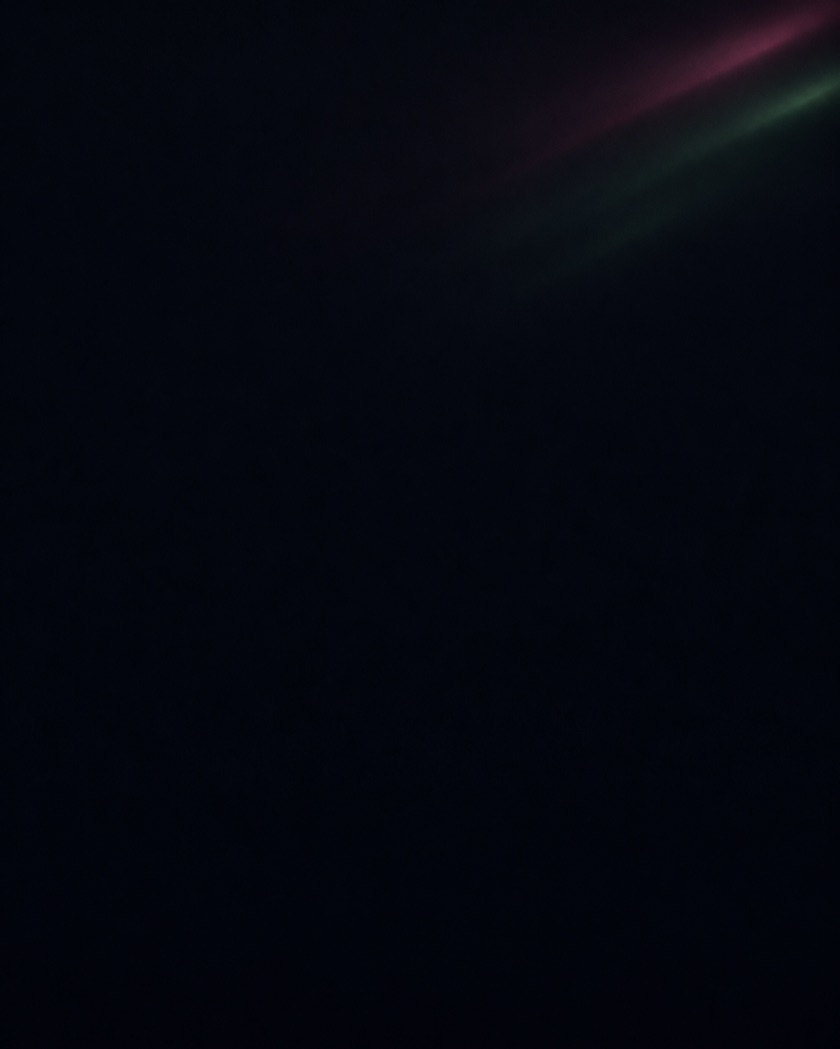
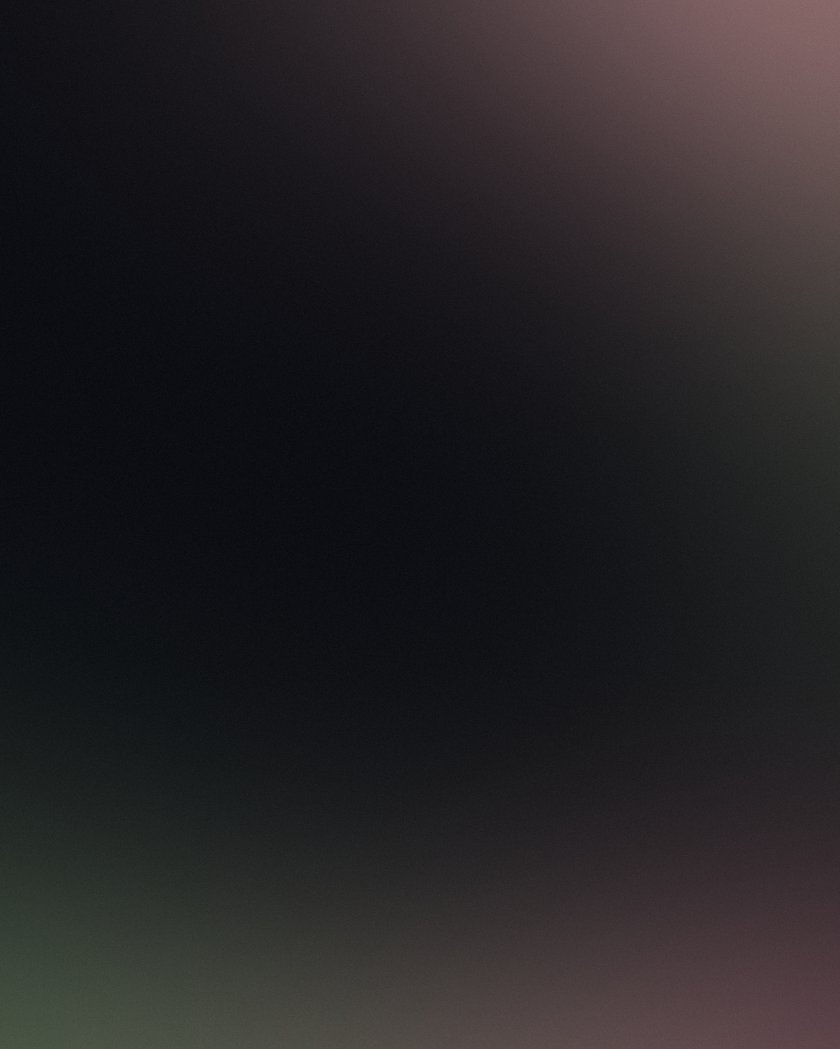
feat(ui): Dango theme pass for 0.3.13
Background D (mesh) from the asset session; one dango colour per card
(sakura source, shiro room, matcha record, red while recording) with a
small title; matcha gradient start button, solid red stop; REC chip beside
the timer, which keeps its indent; version pill in the header; 13 px base
text. UI only: no logic, rule or protocol change. White and dark ink on the
new buttons stay above 4.5:1.

diff --git a/capture/dotnet/src/Apps/Odx.App/MainWindow.xaml b/capture/dotnet/src/Apps/Odx.App/MainWindow.xaml
@@ -8,16 +8,23 @@
         <DockPanel>
             <Border DockPanel.Dock="Top" Background="{StaticResource HeaderBrush}"
                     BorderBrush="{StaticResource HairlineBrush}" BorderThickness="0,0,0,1" Padding="16,12">
-                <StackPanel Orientation="Horizontal">
-                    <!-- Decorative mark: three dango on a skewer in the theme colours. -->
-                    <Canvas Width="36" Height="10" Margin="0,0,10,0" VerticalAlignment="Center" IsHitTestVisible="False">
-                        <Rectangle Canvas.Top="4.5" Width="36" Height="1" Fill="{StaticResource InputLineBrush}" />
-                        <Ellipse Canvas.Left="0" Width="10" Height="10" Fill="{StaticResource AccentBrush}" />
-                        <Ellipse Canvas.Left="12" Width="10" Height="10" Fill="{StaticResource MochiBrush}" />
-                        <Ellipse Canvas.Left="24" Width="10" Height="10" Fill="{StaticResource MatchaBrush}" />
-                    </Canvas>
-                    <TextBlock VerticalAlignment="Center" FontSize="15"><Run Text="Odx" FontFamily="Bahnschrift SemiBold, Segoe UI Semibold" /><Run Text=" Capture" Foreground="{StaticResource TextSecondaryBrush}" /></TextBlock>
-                </StackPanel>
+                <DockPanel>
+                    <!-- The build's version (without the commit), so a screenshot tells which package a player runs. -->
+                    <Border DockPanel.Dock="Right" CornerRadius="10" Padding="9,2" BorderThickness="1" VerticalAlignment="Center"
+                            BorderBrush="{StaticResource HairlineBrush}">
+                        <TextBlock x:Name="VersionText" FontSize="11" Foreground="{StaticResource TextMutedBrush}" />
+                    </Border>
+                    <StackPanel Orientation="Horizontal">
+                        <!-- Decorative mark: three dango on a skewer in the theme colours. -->
+                        <Canvas Width="42" Height="12" Margin="0,0,12,0" VerticalAlignment="Center" IsHitTestVisible="False">
+                            <Rectangle Canvas.Top="5.5" Width="42" Height="1.5" Fill="#6B5A45" />
+                            <Ellipse Canvas.Left="0" Width="12" Height="12" Fill="{StaticResource SakuraBrush}" />
+                            <Ellipse Canvas.Left="13" Width="12" Height="12" Fill="{StaticResource ShiroBrush}" />
+                            <Ellipse Canvas.Left="26" Width="12" Height="12" Fill="{StaticResource MatchaSoftBrush}" />
+                        </Canvas>
+                        <TextBlock VerticalAlignment="Center" FontSize="16"><Run Text="Odx" FontFamily="Bahnschrift SemiBold, Segoe UI Semibold" /><Run Text=" Capture" Foreground="{StaticResource TextSecondaryBrush}" /></TextBlock>
+                    </StackPanel>
+                </DockPanel>
             </Border>
 
             <!-- Capture and Room cards share one label column width (SharedSizeGroup) so their fields line up. -->
@@ -33,6 +40,11 @@
                 </StackPanel.Resources>
 
                 <Border Style="{StaticResource Card}">
+                    <StackPanel>
+                    <StackPanel Orientation="Horizontal" Margin="0,0,0,10">
+                        <Ellipse Style="{StaticResource SectionDot}" Fill="{StaticResource SakuraBrush}" />
+                        <TextBlock x:Name="SectionSourceText" Style="{StaticResource SectionTitle}" />
+                    </StackPanel>
                     <Grid>
                         <Grid.ColumnDefinitions>
                             <ColumnDefinition Width="Auto" SharedSizeGroup="FieldLabel" />
@@ -88,10 +100,16 @@
                         <Button x:Name="ObsTestButton" AutomationProperties.AutomationId="ObsTestButton" Grid.Row="5" Grid.Column="2"
                                 Click="ObsTest_Click" />
                     </Grid>
+                    </StackPanel>
                 </Border>
 
                 <!-- Room card: follows RoomPanel, which the code hides when odx-capture.json names no orchestrator. -->
                 <Border Style="{StaticResource Card}" Visibility="{Binding Visibility, ElementName=RoomPanel}">
+                    <StackPanel>
+                    <StackPanel Orientation="Horizontal" Margin="0,0,0,10">
+                        <Ellipse Style="{StaticResource SectionDot}" Fill="{StaticResource ShiroBrush}" />
+                        <TextBlock x:Name="SectionRoomText" Style="{StaticResource SectionTitle}" />
+                    </StackPanel>
                     <Grid>
                         <Grid.ColumnDefinitions>
                             <ColumnDefinition Width="Auto" SharedSizeGroup="FieldLabel" />
@@ -142,9 +160,27 @@
                                 Grid.Column="1" HorizontalAlignment="Left" Margin="0,0,0,8" Visibility="Collapsed"
                                 Click="SyncClock_Click" />
                     </Grid>
+                    </StackPanel>
                 </Border>
 
                 <Border Style="{StaticResource Card}" Margin="0">
+                    <StackPanel>
+                    <StackPanel Orientation="Horizontal" Margin="0,0,0,10">
+                        <!-- Matcha while idle, red while the recording timer runs. -->
+                        <Ellipse>
+                            <Ellipse.Style>
+                                <Style TargetType="Ellipse" BasedOn="{StaticResource SectionDot}">
+                                    <Setter Property="Fill" Value="{StaticResource MatchaSoftBrush}" />
+                                    <Style.Triggers>
+                                        <DataTrigger Binding="{Binding Visibility, ElementName=RecordTimerDot}" Value="Visible">
+                                            <Setter Property="Fill" Value="{StaticResource RecordBrush}" />
+                                        </DataTrigger>
+                                    </Style.Triggers>
+                                </Style>
+                            </Ellipse.Style>
+                        </Ellipse>
+                        <TextBlock x:Name="SectionRecordText" Style="{StaticResource SectionTitle}" />
+                    </StackPanel>
                     <Grid>
                         <Grid.ColumnDefinitions>
                             <ColumnDefinition Width="Auto" />
@@ -164,31 +200,31 @@
                                  GotKeyboardFocus="Hotkey_GotFocus" LostKeyboardFocus="Hotkey_LostFocus"
                                  PreviewKeyDown="Hotkey_PreviewKeyDown" />
 
-                        <!-- Turns red-outlined while the recording timer runs (its dot is shown), so the stop state reads at a glance. -->
+                        <!-- Turns solid red while the recording timer runs (its dot is shown), so the stop state reads at a glance. -->
                         <Button x:Name="StartStopButton" AutomationProperties.AutomationId="StartStopButton" Grid.Row="1"
-                                Grid.ColumnSpan="2" Margin="0,4,0,0" Padding="12,10" MinHeight="40" FontSize="14"
+                                Grid.ColumnSpan="2" Margin="0,4,0,0" Padding="12,12" MinHeight="46" FontSize="15"
                                 Click="StartStop_Click">
                             <Button.Style>
                                 <Style TargetType="Button" BasedOn="{StaticResource PrimaryButton}">
                                     <Style.Triggers>
                                         <DataTrigger Binding="{Binding Visibility, ElementName=RecordTimerDot}" Value="Visible">
-                                            <Setter Property="Background" Value="{StaticResource RecordTintBrush}" />
-                                            <Setter Property="BorderBrush" Value="{StaticResource RecordBrush}" />
-                                            <Setter Property="Foreground" Value="{StaticResource TextBrush}" />
+                                            <Setter Property="Background" Value="{StaticResource RecordSolidBrush}" />
+                                            <Setter Property="BorderBrush" Value="{StaticResource RecordSolidPressedBrush}" />
+                                            <Setter Property="Foreground" Value="White" />
                                         </DataTrigger>
                                         <MultiDataTrigger>
                                             <MultiDataTrigger.Conditions>
                                                 <Condition Binding="{Binding Visibility, ElementName=RecordTimerDot}" Value="Visible" />
                                                 <Condition Binding="{Binding IsMouseOver, RelativeSource={RelativeSource Self}}" Value="True" />
                                             </MultiDataTrigger.Conditions>
-                                            <Setter Property="Background" Value="{StaticResource RecordTintHoverBrush}" />
+                                            <Setter Property="Background" Value="{StaticResource RecordSolidHoverBrush}" />
                                         </MultiDataTrigger>
                                         <MultiDataTrigger>
                                             <MultiDataTrigger.Conditions>
                                                 <Condition Binding="{Binding Visibility, ElementName=RecordTimerDot}" Value="Visible" />
                                                 <Condition Binding="{Binding IsPressed, RelativeSource={RelativeSource Self}}" Value="True" />
                                             </MultiDataTrigger.Conditions>
-                                            <Setter Property="Background" Value="{StaticResource RecordTintPressedBrush}" />
+                                            <Setter Property="Background" Value="{StaticResource RecordSolidPressedBrush}" />
                                         </MultiDataTrigger>
                                         <Trigger Property="IsEnabled" Value="False">
                                             <Setter Property="Background" Value="{StaticResource DisabledBrush}" />
@@ -209,11 +245,18 @@
                             <TextBlock x:Name="RecordTimerText" AutomationProperties.AutomationId="RecordTimerText" Text="00:00:00"
                                        FontFamily="Consolas" FontSize="32" FontWeight="SemiBold"
                                        Foreground="{StaticResource TextMutedBrush}" TextOptions.TextFormattingMode="Ideal" />
+                            <!-- "REC" beside the time while it runs; follows the dot. -->
+                            <Border CornerRadius="10" Padding="9,2" Margin="14,0,0,0" BorderThickness="1" VerticalAlignment="Center"
+                                    Background="{StaticResource RecordChipBrush}" BorderBrush="{StaticResource RecordBrush}"
+                                    Visibility="{Binding Visibility, ElementName=RecordTimerDot}">
+                                <TextBlock Text="REC" FontSize="11" FontWeight="Bold" Foreground="White" />
+                            </Border>
                         </StackPanel>
 
                         <TextBlock x:Name="StatusText" AutomationProperties.AutomationId="StatusText" Grid.Row="3"
                                    Grid.ColumnSpan="2" TextWrapping="Wrap" Margin="0,4,0,8" />
                     </Grid>
+                    </StackPanel>
                 </Border>
             </StackPanel>
         </DockPanel>

diff --git a/capture/dotnet/src/Apps/Odx.App/App.xaml b/capture/dotnet/src/Apps/Odx.App/App.xaml
@@ -52,6 +52,43 @@
         <SolidColorBrush x:Key="RecordTintHoverBrush" Color="#4A2023" />
         <SolidColorBrush x:Key="RecordTintPressedBrush" Color="#2E1517" />
 
+        <!-- One dango per card: sakura = capture source, shiro = room, matcha = recording. -->
+        <SolidColorBrush x:Key="SakuraBrush" Color="#F2A7BE" />
+        <SolidColorBrush x:Key="ShiroBrush" Color="#F3E9D2" />
+        <SolidColorBrush x:Key="MatchaSoftBrush" Color="#8CC79A" />
+        <SolidColorBrush x:Key="RecordChipBrush" Color="#33F25450" />
+        <LinearGradientBrush x:Key="MatchaGradientBrush" StartPoint="0,0" EndPoint="0,1">
+            <GradientStop Color="#9ED3AB" Offset="0" />
+            <GradientStop Color="#7CB98A" Offset="1" />
+        </LinearGradientBrush>
+        <LinearGradientBrush x:Key="MatchaGradientHoverBrush" StartPoint="0,0" EndPoint="0,1">
+            <GradientStop Color="#ABDCB7" Offset="0" />
+            <GradientStop Color="#89C596" Offset="1" />
+        </LinearGradientBrush>
+        <SolidColorBrush x:Key="MatchaGradientPressedBrush" Color="#74AE82" />
+        <SolidColorBrush x:Key="MatchaDeepInkBrush" Color="#0D1F13" />
+        <!-- Stop state: white text on these reds stays above 4.5:1. -->
+        <LinearGradientBrush x:Key="RecordSolidBrush" StartPoint="0,0" EndPoint="0,1">
+            <GradientStop Color="#CC3A36" Offset="0" />
+            <GradientStop Color="#B92D29" Offset="1" />
+        </LinearGradientBrush>
+        <SolidColorBrush x:Key="RecordSolidHoverBrush" Color="#C23430" />
+        <SolidColorBrush x:Key="RecordSolidPressedBrush" Color="#A82824" />
+
+        <!-- Card title: a coloured dot and a small capitalised label. -->
+        <Style x:Key="SectionDot" TargetType="Ellipse">
+            <Setter Property="Width" Value="8" />
+            <Setter Property="Height" Value="8" />
+            <Setter Property="Margin" Value="0,0,8,0" />
+            <Setter Property="VerticalAlignment" Value="Center" />
+        </Style>
+        <Style x:Key="SectionTitle" TargetType="TextBlock">
+            <Setter Property="FontSize" Value="11" />
+            <Setter Property="FontWeight" Value="SemiBold" />
+            <Setter Property="Foreground" Value="{StaticResource TextSecondaryBrush}" />
+            <Setter Property="VerticalAlignment" Value="Center" />
+        </Style>
+
         <!-- bg.jpg is a <Resource> in the csproj: a missing pack resource fails at startup. -->
         <ImageBrush x:Key="BackdropBrush" ImageSource="pack://application:,,,/bg.jpg"
                     Stretch="UniformToFill" AlignmentX="Right" AlignmentY="Top" />
@@ -73,7 +110,7 @@
             <Setter Property="Background" Value="{StaticResource VoidBrush}" />
             <Setter Property="Foreground" Value="{StaticResource TextBrush}" />
             <Setter Property="FontFamily" Value="Segoe UI" />
-            <Setter Property="FontSize" Value="12" />
+            <Setter Property="FontSize" Value="13" />
             <Setter Property="UseLayoutRounding" Value="True" />
             <Setter Property="TextOptions.TextFormattingMode" Value="Display" />
         </Style>
@@ -86,8 +123,8 @@
             <Setter Property="Background" Value="{StaticResource CardBrush}" />
             <Setter Property="BorderBrush" Value="{StaticResource CardLineBrush}" />
             <Setter Property="BorderThickness" Value="1" />
-            <Setter Property="CornerRadius" Value="10" />
-            <Setter Property="Padding" Value="14,12,14,4" />
+            <Setter Property="CornerRadius" Value="12" />
+            <Setter Property="Padding" Value="16,12,16,6" />
             <Setter Property="Margin" Value="0,0,0,10" />
             <Setter Property="SnapsToDevicePixels" Value="True" />
         </Style>
@@ -257,18 +294,16 @@
 
         <!-- The disabled trigger is repeated last so it wins over this style's own colours. -->
         <Style x:Key="PrimaryButton" TargetType="Button" BasedOn="{StaticResource {x:Type Button}}">
-            <Setter Property="Background" Value="{StaticResource MatchaBrush}" />
-            <Setter Property="BorderBrush" Value="{StaticResource MatchaBrush}" />
-            <Setter Property="Foreground" Value="{StaticResource MatchaInkBrush}" />
+            <Setter Property="Background" Value="{StaticResource MatchaGradientBrush}" />
+            <Setter Property="BorderBrush" Value="{StaticResource MatchaGradientPressedBrush}" />
+            <Setter Property="Foreground" Value="{StaticResource MatchaDeepInkBrush}" />
             <Setter Property="FontWeight" Value="SemiBold" />
             <Style.Triggers>
                 <Trigger Property="IsMouseOver" Value="True">
-                    <Setter Property="Background" Value="{StaticResource MatchaHoverBrush}" />
-                    <Setter Property="BorderBrush" Value="{StaticResource MatchaHoverBrush}" />
+                    <Setter Property="Background" Value="{StaticResource MatchaGradientHoverBrush}" />
                 </Trigger>
                 <Trigger Property="IsPressed" Value="True">
-                    <Setter Property="Background" Value="{StaticResource MatchaPressedBrush}" />
-                    <Setter Property="BorderBrush" Value="{StaticResource MatchaPressedBrush}" />
+                    <Setter Property="Background" Value="{StaticResource MatchaGradientPressedBrush}" />
                 </Trigger>
                 <Trigger Property="IsEnabled" Value="False">
                     <Setter Property="Background" Value="{StaticResource DisabledBrush}" />

diff --git a/capture/dotnet/src/Apps/Odx.App/Strings.cs b/capture/dotnet/src/Apps/Odx.App/Strings.cs
@@ -113,6 +113,9 @@ public sealed class Strings
     public required string TaskIdTooltip { get; init; }
     public required string TaskIdRequired { get; init; }
     public required string RecordTimerTooltip { get; init; }
+    public required string SectionSource { get; init; }
+    public required string SectionRoom { get; init; }
+    public required string SectionRecord { get; init; }
     public required string TaskBatchMissing { get; init; }
     public required string TaskBatchInvalid { get; init; }
     public required Func<string, string> TaskBatchFull { get; init; }
@@ -257,6 +260,9 @@ public sealed class Strings
         TaskId = "Task ID",
         TaskIdTooltip = "The round's name: every player's recording and the delivered session go into a folder of this name (letters, digits, _ . -; typed again, it records that round anew and deletes the earlier take)",
         RecordTimerTooltip = "Recording time: runs from the first recorded frame (after the 3-2-1) until the recording stops",
+        SectionSource = "CAPTURE SOURCE",
+        SectionRoom = "ROOM",
+        SectionRecord = "RECORD",
         TaskBatchMissing = "Type the batch code (e.g. AMRF-001) before starting the round",
         TaskBatchInvalid = "Batch code: letters, digits, _ . - only, starting with a letter or digit, not ending with a dot",
         TaskBatchFull = batch => $"Batch {batch} has its 15 videos: type the next batch code",
@@ -415,6 +421,9 @@ public sealed class Strings
         TaskId = "Task ID",
         TaskIdTooltip = "Tên round: bản ghi của mọi người chơi và session giao đều nằm trong thư mục mang tên này (chữ, số, _ . -; nhập lại tên cũ thì quay lại round đó, bản cũ bị xoá)",
         RecordTimerTooltip = "Thời gian quay: tính từ khung hình đầu tiên (sau 3-2-1) đến khi dừng quay",
+        SectionSource = "NGUỒN QUAY",
+        SectionRoom = "PHÒNG",
+        SectionRecord = "QUAY",
         TaskBatchMissing = "Nhập mã lô (ví dụ AMRF-001) rồi mới bắt đầu round",
         TaskBatchInvalid = "Mã lô chỉ gồm chữ, số, _ . -, bắt đầu bằng chữ hoặc số, không kết thúc bằng dấu chấm",
         TaskBatchFull = batch => $"Lô {batch} đã đủ 15 video: nhập mã lô tiếp theo",

diff --git a/capture/dotnet/src/Apps/Odx.App/MainWindow.xaml.cs b/capture/dotnet/src/Apps/Odx.App/MainWindow.xaml.cs
@@ -135,6 +135,11 @@ public partial class MainWindow : Window
 
     private void ApplyLanguage()
     {
+        SectionSourceText.Text = _t.SectionSource;
+        SectionRoomText.Text = _t.SectionRoom;
+        SectionRecordText.Text = _t.SectionRecord;
+        // "0.3.13+<commit>": the commit stays in recording.json, the window shows the version only.
+        VersionText.Text = Odx.Core.BuildInfo.Version.Split('+')[0];
         LanguageLabel.Content = _t.Language;
         SourceLabel.Content = _t.Source;
         GameLabel.Content = _t.GameProfile;
